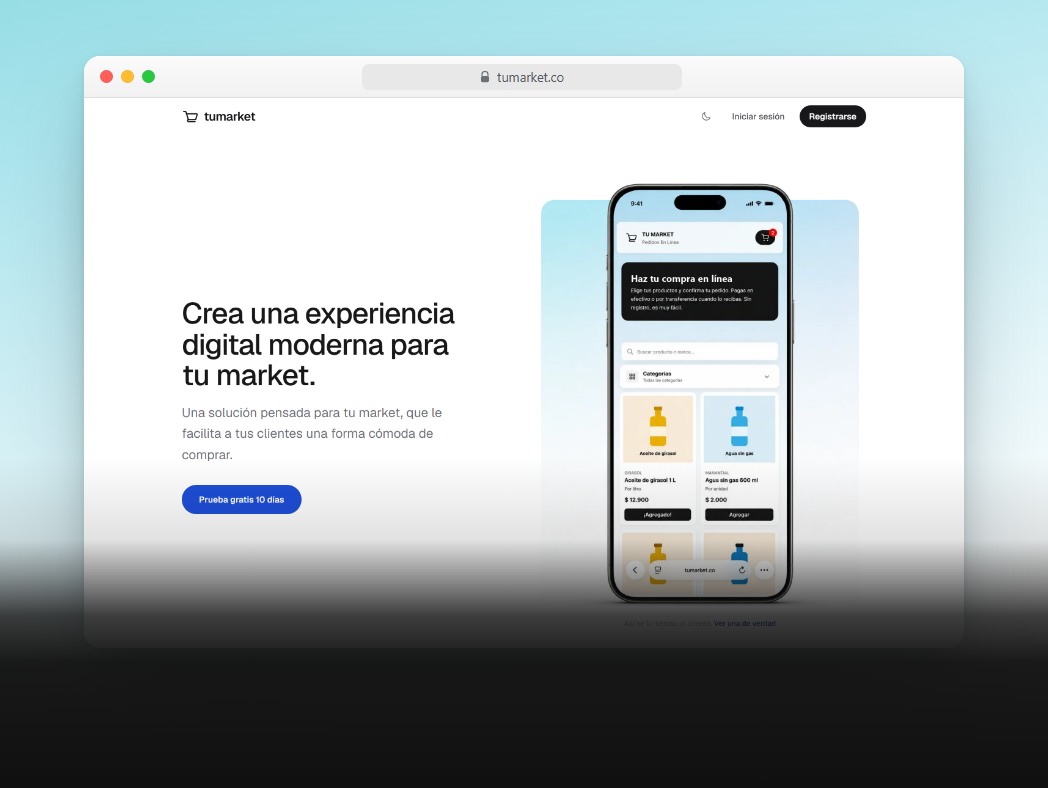
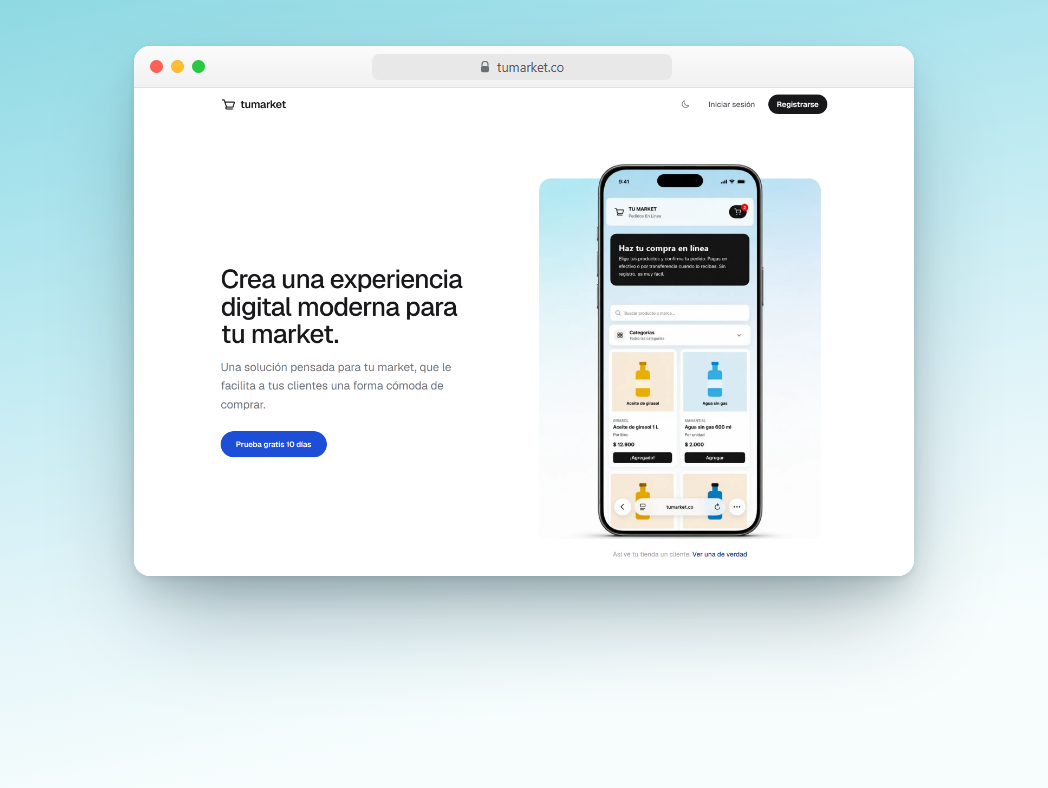
Fix the entrance animations to match the original
The reveal distances were swapped. Images in the original travel 240px on
entry — six times what the text blocks use — and that long, slow rise is
the effect you notice on first load. I had given 240px to the work grid
instead, and no reveal at all to the hero portrait or the benefit artwork.

Measured against the live Framer build, frozen at its initial state:

- hero portrait and benefit artwork: 240px (were static)
- work grid: 40px (was 240px)
- benefit: the card rises 40px as one block; its copy does not animate
  separately, so those per-element reveals are gone
- light beam and logo ticker: fade in without travelling
- services and footer: no entrance animation at all in the original

Also replaces two things I had invented on the project cards. The artwork
is masked out between 50% and 83.6% of the card's height, dissolving into
the card background — that fade is what gives the title somewhere dark to
sit, not a gradient baked into the image. And the overlay on each card is
a hairline border that fades toward the bottom, not a sheen sweep.

The TUMARKET.CO artwork is regenerated without its baked scrim and framed
higher so the mask only softens the window's lower edge. Contrast over the
composited result: 12.0 on the title, 8.5 on the description.

Hover (image zoom, arrow nudge) is kept — that was your request, not
something the original does.

diff --git a/components/visuals/HeroVisual.tsx b/components/visuals/HeroVisual.tsx
@@ -1,6 +1,7 @@
 import Image from "next/image";
 import { StarfieldCanvas } from "./StarfieldCanvas";
 import { ShootingStars } from "./ShootingStars";
+import { Reveal } from "@/components/ui/Reveal";
 import { site } from "@/content/site";
 
 // The hero's right-hand card: a night sky built from four stacked layers,
@@ -11,21 +12,24 @@ export function HeroVisual() {
       {/* Layer 0 — twinkling starfield, fading out toward the middle. */}
       <StarfieldCanvas className="absolute inset-x-0 top-0 z-0 h-[287px] w-full [mask-image:linear-gradient(#000_0%,transparent_100%)]" />
 
-      {/* Layer 1 — a heavily blurred triangle acting as a light beam. */}
-      <div
+      {/* Layer 1 — a heavily blurred triangle acting as a light beam. It fades
+          in on load without travelling, matching the original. */}
+      <Reveal
+        distance={0}
         className="absolute -top-[335px] -right-[51px] z-[1] blur-[64px]"
-        style={{ animation: "beam-drift 14s ease-in-out infinite" }}
       >
-        <svg
-          width={716}
-          height={743}
-          viewBox="0 0 716 743"
-          aria-hidden="true"
-          className="opacity-20"
-        >
-          <path d="M 519 0.5 L 0.5 743 L 715.5 20 Z" fill="rgba(255,255,255,0.85)" />
-        </svg>
-      </div>
+        <div style={{ animation: "beam-drift 14s ease-in-out infinite" }}>
+          <svg
+            width={716}
+            height={743}
+            viewBox="0 0 716 743"
+            aria-hidden="true"
+            className="opacity-20"
+          >
+            <path d="M 519 0.5 L 0.5 743 L 715.5 20 Z" fill="rgba(255,255,255,0.85)" />
+          </svg>
+        </div>
+      </Reveal>
 
       {/* Layer 2 — shooting stars. */}
       <ShootingStars />
@@ -33,8 +37,13 @@ export function HeroVisual() {
       {/* Layer 3 — a hairline border that fades out toward the bottom. */}
       <div className="pointer-events-none absolute inset-0 z-[1] rounded-[48px] border border-[var(--hairline)] [mask-image:linear-gradient(#000_0%,rgba(0,0,0,0.16)_82.8442%)]" />
 
-      {/* Layer 4 — the portrait. */}
-      <div className="mask-fade-b absolute bottom-[-54px] left-0 z-10">
+      {/* Layer 4 — the portrait. Images travel 240px on entry, six times the
+          distance the text blocks use; that long rise is the effect that
+          reads as the page "settling" on load. */}
+      <Reveal
+        distance={240}
+        className="mask-fade-b absolute bottom-[-54px] left-0 z-10"
+      >
         <Image
           src={site.hero.portrait}
           alt={`Portrait of ${site.profile.name}`}
@@ -43,7 +52,7 @@ export function HeroVisual() {
           priority
           className="h-[326px] w-[333px] object-cover"
         />
-      </div>
+      </Reveal>
     </div>
   );
 }

diff --git a/components/sections/Services.tsx b/components/sections/Services.tsx
@@ -2,7 +2,6 @@ import Image from "next/image";
 import { site } from "@/content/site";
 import { Heading } from "@/components/ui/Heading";
 import { ButtonLink } from "@/components/ui/Button";
-import { Reveal } from "@/components/ui/Reveal";
 
 export function Services() {
   const { services } = site;
@@ -12,31 +11,26 @@ export function Services() {
       id="services"
       className="relative z-[1] flex w-full items-center justify-center gap-16 rounded-[48px] bg-surface p-12 max-tab:px-8 max-desk:flex-col"
     >
-      {/* On narrow screens the visual moves above the copy. */}
+      {/* No entrance animation here — the original leaves this section and the
+          footer static, so they are simply present as you scroll in. */}
       <div className="flex flex-1 flex-col items-start justify-center gap-8 max-desk:order-2 max-desk:w-full">
-        <Reveal className="w-full">
-          <Heading segments={services.heading} />
-        </Reveal>
+        <Heading segments={services.heading} />
 
-        <Reveal className="w-full" delay={0.1}>
-          <div className="flex w-full flex-col justify-center gap-4">
-            <div className="flex items-center justify-start gap-2.5">
-              <p className="t-lead">{services.lead}</p>
-              <span className="flex shrink-0 items-center justify-center rounded-full bg-[rgba(255,255,255,0.02)] px-2 py-1">
-                <span className="t-badge">{services.priceBadge}</span>
-              </span>
-            </div>
-            <p className="t-body-sm">{services.body}</p>
+        <div className="flex w-full flex-col justify-center gap-4">
+          <div className="flex items-center justify-start gap-2.5">
+            <p className="t-lead">{services.lead}</p>
+            <span className="flex shrink-0 items-center justify-center rounded-full bg-[rgba(255,255,255,0.02)] px-2 py-1">
+              <span className="t-badge">{services.priceBadge}</span>
+            </span>
           </div>
-        </Reveal>
+          <p className="t-body-sm">{services.body}</p>
+        </div>
 
-        <Reveal className="w-full" delay={0.2}>
-          <ButtonLink
-            href={services.cta.href}
-            label={services.cta.label}
-            fullWidth
-          />
-        </Reveal>
+        <ButtonLink
+          href={services.cta.href}
+          label={services.cta.label}
+          fullWidth
+        />
       </div>
 
       <div className="mask-fade-b z-[5] shrink-0 max-desk:order-1">

diff --git a/components/sections/Work.tsx b/components/sections/Work.tsx
@@ -12,18 +12,21 @@ function ProjectCard({ project }: { project: Project }) {
       rel="noopener noreferrer"
       className="group relative flex aspect-[524/394] w-full flex-col justify-end overflow-hidden rounded-[48px] bg-surface p-8"
     >
-      <Image
-        src={project.image}
-        alt={`${project.title} — ${project.description}`}
-        fill
-        sizes="(min-width: 1200px) 524px, 100vw"
-        className="object-cover transition-transform duration-700 ease-out group-hover:scale-[1.04]"
-      />
-
-      {/* Diagonal sheen that sweeps across on hover. */}
-      <span className="pointer-events-none absolute inset-0 z-[1] overflow-hidden rounded-[48px]">
-        <span className="absolute top-0 -left-1/3 h-[200%] w-1/3 -translate-y-1/4 bg-[linear-gradient(270deg,rgba(255,255,255,0.14)_0%,rgba(255,255,255,0)_100%)] opacity-0 group-hover:opacity-100 group-hover:[animation:sheen_900ms_ease-out]" />
+      {/* The artwork dissolves into the card's own background between 50% and
+          83.6% of its height. That fade — not a baked-in gradient — is what
+          gives the title and description something dark to sit on. */}
+      <span className="pointer-events-none absolute inset-0 [mask-image:linear-gradient(#000_50%,transparent_83.5916%)]">
+        <Image
+          src={project.image}
+          alt={`${project.title} — ${project.description}`}
+          fill
+          sizes="(min-width: 1200px) 524px, 100vw"
+          className="object-cover transition-transform duration-700 ease-out group-hover:scale-[1.04]"
+        />
       </span>
+
+      {/* Hairline border, itself fading out toward the bottom. */}
+      <span className="pointer-events-none absolute inset-0 z-[1] rounded-[48px] border border-[var(--hairline)] [mask-image:linear-gradient(#000_0%,rgba(0,0,0,0.16)_82.8442%)]" />
 
       <div className="relative z-[2] flex w-full flex-col justify-center gap-2">
         <div className="flex w-full items-center justify-start gap-3">
@@ -42,7 +45,6 @@ export function Work() {
   return (
     <Reveal
       as="section"
-      distance={240}
       id="work"
       className="grid w-full max-w-[1200px] scroll-mt-16 grid-cols-1 justify-center gap-6 desk:grid-cols-2"
     >

diff --git a/components/sections/Benefit.tsx b/components/sections/Benefit.tsx
@@ -8,11 +8,14 @@ export function Benefit() {
   const { benefit } = site;
 
   return (
-    <section
+    // The whole card rises 40px as one block — the copy inside does not animate
+    // separately. Only the artwork gets its own, much longer 240px travel.
+    <Reveal
+      as="section"
       id="benefit"
       className="flex w-full items-center justify-center gap-16 overflow-hidden rounded-[48px] bg-surface p-12 max-tab:flex-col max-tab:px-8 max-desk:flex-col"
     >
-      <div className="mask-fade-b shrink-0">
+      <Reveal distance={240} className="mask-fade-b shrink-0">
         <Image
           src={benefit.visual}
           alt=""
@@ -20,19 +23,13 @@ export function Benefit() {
           height={291}
           className="h-[291px] w-[270px] object-cover"
         />
-      </div>
+      </Reveal>
 
       <div className="flex flex-1 flex-col items-start justify-center gap-6">
-        <Reveal className="w-full">
-          <Heading segments={benefit.heading} />
-        </Reveal>
-        <Reveal className="w-full" delay={0.1}>
-          <p className="t-body">{benefit.body}</p>
-        </Reveal>
-        <Reveal delay={0.2}>
-          <ButtonLink href={benefit.cta.href} label={benefit.cta.label} />
-        </Reveal>
+        <Heading segments={benefit.heading} />
+        <p className="t-body">{benefit.body}</p>
+        <ButtonLink href={benefit.cta.href} label={benefit.cta.label} />
       </div>
-    </section>
+    </Reveal>
   );
 }

diff --git a/components/sections/SiteFooter.tsx b/components/sections/SiteFooter.tsx
@@ -1,17 +1,13 @@
 import { site } from "@/content/site";
 import { SocialIconLink } from "@/components/ui/SocialIconLink";
 import { LocalClock } from "@/components/LocalClock";
-import { Reveal } from "@/components/ui/Reveal";
 
 export function SiteFooter() {
   const { footer, profile } = site;
 
   return (
     <>
-      <Reveal
-        as="footer"
-        className="flex w-full max-w-[900px] flex-col items-center justify-center gap-4 px-16 pt-8 max-tab:px-0"
-      >
+      <footer className="flex w-full max-w-[900px] flex-col items-center justify-center gap-4 px-16 pt-8 max-tab:px-0">
         <div className="flex w-min flex-col items-center justify-center gap-4">
           <p className="t-logo whitespace-nowrap">{profile.logo}</p>
 
@@ -28,7 +24,7 @@ export function SiteFooter() {
             ))}
           </div>
         </div>
-      </Reveal>
+      </footer>
 
       <div className="flex w-full max-w-[800px] flex-col items-center justify-center p-6">
         <div className="flex items-center gap-2">

diff --git a/components/sections/LogoMarquee.tsx b/components/sections/LogoMarquee.tsx
@@ -16,7 +16,12 @@ export function LogoMarquee() {
         {site.marquee.eyebrow}
       </p>
 
-      <div className="relative h-[55px] w-full max-w-[700px] overflow-hidden [mask-image:linear-gradient(to_right,transparent_0%,#000_25%,#000_75%,transparent_100%)]">
+      {/* The ticker fades in on its own, on top of the section's 40px rise. */}
+      <Reveal
+        distance={0}
+        delay={0.15}
+        className="relative h-[55px] w-full max-w-[700px] overflow-hidden [mask-image:linear-gradient(to_right,transparent_0%,#000_25%,#000_75%,transparent_100%)]"
+      >
         <ul
           className="absolute top-0 left-0 flex h-full w-max items-center will-change-transform"
           style={{ animation: "marquee 26s linear infinite" }}
@@ -42,7 +47,7 @@ export function LogoMarquee() {
             </li>
           ))}
         </ul>
-      </div>
+      </Reveal>
     </Reveal>
   );
 }
